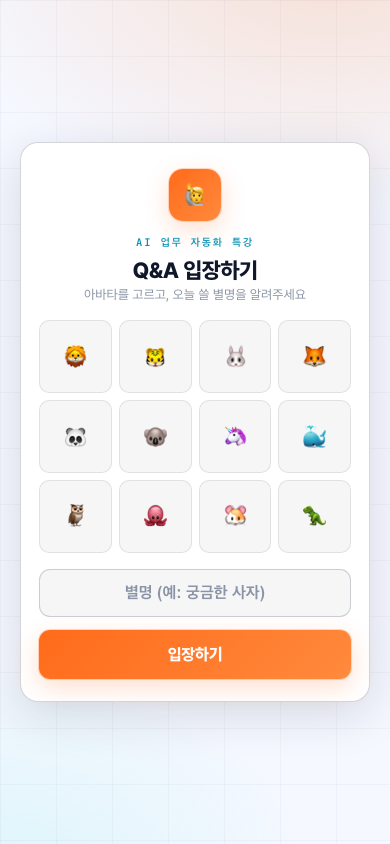
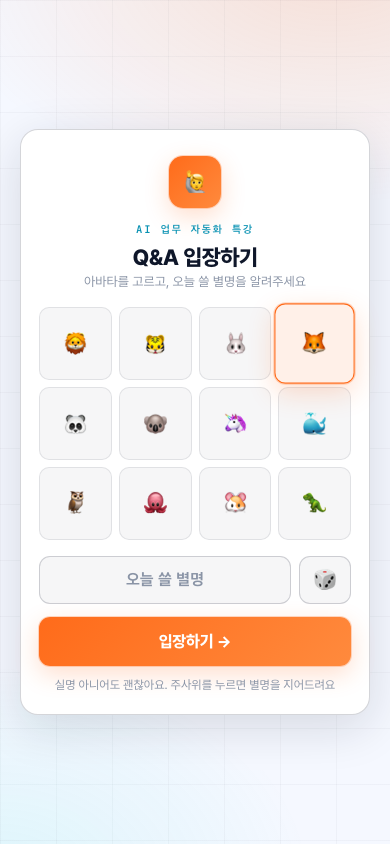
UI 개선: 시작 화면 큰 QR·주사위 별명·글자수 카운터·순위 칩·진행 도구 정리

diff --git a/index.html b/index.html
@@ -91,7 +91,7 @@ button{font-family:inherit}
   color:var(--cyan);margin-bottom:9px}
 .kicker::before{content:"";width:16px;height:1px;background:var(--cyan);opacity:.7}
 .pagehead h1{font-size:clamp(21px,5.6vw,27px);font-weight:800;letter-spacing:-.03em;line-height:1.28;word-break:keep-all}
-.pagehead h1 em{font-style:normal;color:var(--orange2)}
+.pagehead h1 em{font-style:normal;background:linear-gradient(90deg,var(--orange2),var(--orange));-webkit-background-clip:text;background-clip:text;color:transparent}
 .pagehead p{margin-top:8px;font-size:13.5px;color:var(--sub);font-weight:400;word-break:keep-all;line-height:1.6}
 .statrow{display:flex;gap:8px;margin:16px 0 12px;flex-wrap:wrap}
 .stat{flex:1;min-width:88px;background:var(--card);border:1px solid var(--line);border-radius:12px;padding:11px 14px;box-shadow:var(--shadow-sm)}
@@ -114,7 +114,8 @@ button{font-family:inherit}
 .q .who{font-size:12.5px;font-weight:700;color:var(--sub);min-width:0;overflow:hidden;text-overflow:ellipsis;white-space:nowrap}
 .q .who .me{color:var(--orange-deep)}
 .q .time{font-family:var(--mono);font-size:10.5px;color:var(--mut);font-weight:500;flex:none}
-.q .rank{margin-left:auto;font-size:16px;flex:none}
+.q .rank{margin-left:auto;font-size:16px;flex:none;display:flex;align-items:center}
+.rankno{font-family:var(--mono);font-size:11px;font-weight:700;color:var(--mut);border:1px solid var(--line2);border-radius:6px;padding:2px 7px;letter-spacing:.04em}
 .q .txt{font-size:15.5px;line-height:1.58;font-weight:450;color:var(--ink);word-break:keep-all;overflow-wrap:anywhere;white-space:pre-wrap}
 .q .foot{display:flex;align-items:center;gap:8px;margin-top:12px}
 .voteBtn{display:flex;align-items:center;gap:7px;border:1px solid var(--line2);background:rgba(var(--tint),.04);color:var(--sub);
@@ -137,6 +138,18 @@ button{font-family:inherit}
 .empty{text-align:center;color:var(--mut);padding:56px 0 48px;font-size:14px;line-height:1.8}
 .empty .big{font-family:var(--mono);font-size:13px;letter-spacing:.2em;color:var(--cyan);margin-bottom:14px;opacity:.8}
 .empty b{color:var(--sub);font-size:15px}
+/* 스크린 빈 화면: QR을 크게 — 시작할 때 청중이 보는 첫 장면 */
+.empty-screen{grid-column:1/-1;display:grid;grid-template-columns:auto 1fr;gap:34px;align-items:center;
+  background:var(--card);border:1px solid var(--line);border-radius:22px;padding:34px 38px;box-shadow:var(--shadow-sm)}
+.empty-screen img{width:min(34vh,300px);background:#fff;padding:14px;border-radius:16px;border:1px solid var(--line2)}
+.empty-screen .k{font-family:var(--mono);font-size:11.5px;letter-spacing:.2em;color:var(--cyan);margin-bottom:12px}
+.empty-screen h2{font-size:clamp(24px,2.6vw,38px);font-weight:800;letter-spacing:-.03em;line-height:1.25;word-break:keep-all}
+.empty-screen h2 em{font-style:normal;color:var(--orange2)}
+.empty-screen .u{font-family:var(--mono);font-size:clamp(14px,1.3vw,19px);font-weight:600;color:var(--orange-deep);margin-top:16px;word-break:break-all}
+.empty-screen .steps{display:flex;gap:10px;margin-top:22px;flex-wrap:wrap}
+.empty-screen .step{display:flex;align-items:center;gap:8px;font-size:14px;color:var(--sub);background:rgba(var(--tint),.04);border:1px solid var(--line);border-radius:10px;padding:9px 13px}
+.empty-screen .step b{font-family:var(--mono);font-size:11px;color:var(--on-accent);background:linear-gradient(135deg,var(--orange),var(--orange2));width:20px;height:20px;border-radius:6px;display:inline-flex;align-items:center;justify-content:center}
+@media (max-width:900px){.empty-screen{grid-template-columns:1fr;text-align:center;padding:26px 22px}.empty-screen img{margin:0 auto}.empty-screen .steps{justify-content:center}}
 
 /* ================= 입력바 (참가자) ================= */
 .askbar{position:fixed;left:0;right:0;bottom:0;z-index:40;transform:translateY(calc(-1 * var(--kb,0px)));transition:transform .18s ease-out;
@@ -149,6 +162,9 @@ button{font-family:inherit}
 #askBtn{border:none;border-radius:10px;background:linear-gradient(135deg,var(--orange),var(--orange2));color:var(--on-accent);
   font-weight:800;font-size:14px;padding:0 20px;cursor:pointer;box-shadow:var(--glow);white-space:nowrap;transition:.15s}
 #askBtn:active{transform:scale(.94)}
+#askBtn:disabled{opacity:.45;box-shadow:none;cursor:default}
+.cnt{align-self:center;font-family:var(--mono);font-size:11px;color:var(--mut);padding-right:4px;display:none;font-variant-numeric:tabular-nums}
+.cnt.show{display:block}.cnt.warn{color:var(--orange2)}
 
 /* ================= 입장 게이트 ================= */
 #gate{position:fixed;inset:0;z-index:50;display:flex;align-items:center;justify-content:center;background:var(--bg);padding:20px;
@@ -173,6 +189,11 @@ button{font-family:inherit}
 #nickInput{width:100%;padding:14px 16px;font-size:16px;border-radius:11px;border:1px solid var(--line2);background:rgba(var(--tint),.04);
   color:var(--ink);outline:none;text-align:center;font-weight:700;transition:.15s}
 #nickInput::placeholder{color:var(--mut)}
+.nickrow{display:flex;gap:8px}
+.nickrow #nickInput{flex:1;min-width:0}
+#diceBtn{flex:none;width:52px;border-radius:11px;border:1px solid var(--line2);background:rgba(var(--tint),.04);font-size:20px;cursor:pointer;transition:.15s}
+#diceBtn:hover{border-color:var(--orange)}#diceBtn:active{transform:rotate(25deg) scale(.92)}
+.gate-card .hint{font-size:12px;color:var(--mut);margin-top:12px}
 #nickInput:focus{border-color:var(--orange);background:rgba(255,107,26,.07)}
 .btn{display:inline-block;width:100%;margin-top:13px;padding:15px;border:none;border-radius:11px;font-size:16px;font-weight:800;cursor:pointer;
   background:linear-gradient(135deg,var(--orange),var(--orange2));color:var(--on-accent);letter-spacing:-.01em;box-shadow:var(--glow);transition:.15s}
@@ -224,6 +245,8 @@ body.screen .q:hover .modDel{opacity:1}
 body.screen .q.first{grid-column:1/-1;background:linear-gradient(135deg,rgba(255,107,26,.14),var(--card) 62%);
   border:1px solid rgba(255,107,26,.42);box-shadow:0 0 0 1px rgba(255,107,26,.12),0 18px 60px rgba(255,107,26,.16)}
 body.screen .q.first::before{background:linear-gradient(var(--orange),var(--orange2));top:18px;bottom:18px}
+body.screen .q.first{animation:topglow 3.2s ease-in-out infinite}
+@keyframes topglow{50%{box-shadow:0 0 0 1px rgba(255,107,26,.22),0 18px 70px rgba(255,107,26,.3)}}
 body.screen .q.first .txt{font-size:clamp(22px,2.1vw,30px);font-weight:700}
 body.screen .q.first .scvotes{font-size:24px;color:var(--orange2)}
 body.screen .q.first::after{content:"◆ TOP";position:absolute;top:-10px;left:18px;font-family:var(--mono);font-size:10px;font-weight:700;
@@ -237,12 +260,15 @@ body.screen .q.first::after{content:"◆ TOP";position:absolute;top:-10px;left:1
 .sc-stats{display:grid;grid-template-columns:1fr 1fr;gap:8px}
 .sc-stats .stat{min-width:0}
 .ctlrow{display:flex;flex-direction:column;gap:8px}
+.ctlgrid{display:grid;grid-template-columns:1fr 1fr;gap:8px}
+.ctlgrid .wide{grid-column:1/-1}
+.ctl.danger:hover{border-color:#FF5A5A;color:#FF5A5A}
 .ctl{display:flex;align-items:center;justify-content:space-between;gap:10px;border:1px solid var(--line);border-radius:10px;
   background:rgba(var(--tint),.03);padding:11px 13px;font-size:13.5px;font-weight:600;color:var(--sub);cursor:pointer;transition:.15s;width:100%;text-align:left}
 .ctl:hover{border-color:rgba(255,107,26,.45);color:var(--orange-deep)}
 .ctl .st{font-family:var(--mono);font-size:11px;color:var(--mut);font-weight:500;flex:none}
 .ctl.on{border-color:var(--orange);background:var(--orange-soft);color:var(--orange-deep)}
-select#bgmSel{border:none;background:transparent;font-family:var(--mono);font-size:12px;font-weight:600;color:inherit;outline:none;cursor:pointer;text-align:right}
+select#bgmSel{border:none;background:transparent;max-width:120px;font-family:var(--mono);font-size:12px;font-weight:600;color:inherit;outline:none;cursor:pointer;text-align:right}
 select#bgmSel option{background:var(--opt-bg);color:var(--ink)}
 
 /* --- TOPIC 컨트롤(강사) --- */
@@ -407,8 +433,12 @@ body.screen .q:hover .hostrow{opacity:1}
     <h2>Q&A 입장하기</h2>
     <p>아바타를 고르고, 오늘 쓸 별명을 알려주세요</p>
     <div class="avatars" id="avatars"></div>
-    <input id="nickInput" maxlength="10" placeholder="별명 (예: 궁금한 사자)" autocomplete="off">
-    <button class="btn" id="enterBtn">입장하기</button>
+    <div class="nickrow">
+      <input id="nickInput" maxlength="10" placeholder="오늘 쓸 별명" autocomplete="off">
+      <button id="diceBtn" title="별명 랜덤 추천" aria-label="별명 랜덤 추천">🎲</button>
+    </div>
+    <button class="btn" id="enterBtn">입장하기 →</button>
+    <div class="hint">실명 아니어도 괜찮아요. 주사위를 누르면 별명을 지어드려요</div>
   </div>
 </div>
 
@@ -453,27 +483,22 @@ body.screen .q:hover .hostrow{opacity:1}
       </div>
 
       <div class="sidecard">
-        <div class="t">SOUND</div>
-        <div class="ctlrow">
+        <div class="t">HOST — 진행 도구</div>
+        <div class="ctlgrid">
+          <button class="ctl" id="fsBtn"><span>⛶ 전체화면</span><span class="st">F</span></button>
+          <button class="ctl" id="qrBtn"><span>▣ QR 크게</span><span class="st">Q</span></button>
+          <button class="ctl" id="hideDoneBtn"><span>✓ 완료 숨김</span><span class="st" id="hideDoneSt">표시</span></button>
+          <button class="ctl" id="csvBtn"><span>⤓ CSV 저장</span><span class="st">기록</span></button>
           <button class="ctl" id="sfxBtn"><span>🔔 효과음</span><span class="st" id="sfxSt">꺼짐</span></button>
-          <label class="ctl" id="bgmCtl" for="bgmSel"><span>🎵 배경음악</span>
+          <label class="ctl" id="bgmCtl" for="bgmSel"><span>🎵</span>
             <select id="bgmSel">
-              <option value="off">끄기</option>
+              <option value="off">배경음 끄기</option>
               <option value="lounge">라운지 (차분)</option>
               <option value="quiz">퀴즈쇼 (긴장감)</option>
               <option value="arcade">아케이드 (신남)</option>
             </select>
           </label>
-        </div>
-      </div>
-      <div class="sidecard">
-        <div class="t">HOST — 진행 도구</div>
-        <div class="ctlrow">
-          <button class="ctl" id="fsBtn"><span>⛶ 전체화면</span><span class="st">F</span></button>
-          <button class="ctl" id="qrBtn"><span>▣ QR 크게 띄우기</span><span class="st">Q</span></button>
-          <button class="ctl" id="csvBtn"><span>⤓ CSV로 내려받기</span><span class="st">전체 기록</span></button>
-          <button class="ctl" id="hideDoneBtn"><span>✓ 답변완료 숨기기</span><span class="st" id="hideDoneSt">표시</span></button>
-          <button class="ctl" id="resetBtn"><span>🗑 전체 초기화</span><span class="st">새 세션</span></button>
+          <button class="ctl danger wide" id="resetBtn"><span>🗑 전체 초기화</span><span class="st">새 세션</span></button>
         </div>
         <div class="roomtag" id="roomTag"></div>
       </div>
@@ -484,8 +509,9 @@ body.screen .q:hover .hostrow{opacity:1}
 <!-- 질문 입력 (참가자) -->
 <div class="askbar" id="askbar" style="display:none">
   <div class="inner">
-    <input id="qInput" maxlength="120" placeholder="질문을 입력하세요 (120자)" autocomplete="off">
-    <button id="askBtn">올리기</button>
+    <input id="qInput" maxlength="120" placeholder="질문을 입력하세요" autocomplete="off">
+    <span class="cnt" id="cnt">0/120</span>
+    <button id="askBtn" disabled>올리기</button>
   </div>
   <div class="reactbar" id="reactbar">
     <button data-react="👏">👏</button><button data-react="🔥">🔥</button>
@@ -748,7 +774,8 @@ function fly(e){
 /* ================= 렌더 ================= */
 let filterMode='all', sortMode='votes', hideDone=false;
 const ago=ts=>{const m=Math.floor((Date.now()-ts)/60000);return m<1?'방금':m<60?m+'분 전':Math.floor(m/60)+'시간 전'};
-const medal=i=>i===0?'👑':i===1?'🥈':i===2?'🥉':'';
+const rankTag=i=>i===0?'👑':i<3?`<span class="rankno">#${i+1}</span>`:'';
+let screenQr='', screenJoin='';
 function esc(s){return String(s).replace(/[&<>"']/g,c=>({'&':'&amp;','<':'&lt;','>':'&gt;','"':'&quot;',"'":'&#39;'}[c]))}
 function ordered(){
   let qs=[...state.questions];
@@ -776,7 +803,16 @@ function render(){
   const rankOf={}; all.filter(q=>!q.answered).forEach((q,i)=>rankOf[q.id]=i);
 
   if(!qs.length){
-    list.innerHTML=`<div class="empty"><div class="big">// NO ENTRIES YET</div><b>${filterMode==='all'?c.empty:'해당하는 글이 없어요'}</b><br>${IS_SCREEN?'폰으로 QR을 찍고 첫 글을 올려보세요':'아래 입력창에 편하게 남겨주세요'}</div>`;
+    if(IS_SCREEN&&filterMode==='all'&&!all.length&&screenQr){
+      list.innerHTML=`<div class="empty-screen"><img src="${screenQr}" alt="입장 QR"><div>
+        <div class="k">JOIN — 폰으로 입장</div>
+        <h2>${isTopic()?'폰으로 QR을 찍고 <em>답을 남겨</em>주세요':'폰으로 QR을 찍고 <em>첫 질문</em>을 올려주세요'}</h2>
+        <div class="u">${esc(screenJoin)}</div>
+        <div class="steps"><span class="step"><b>1</b>카메라로 QR 찍기</span><span class="step"><b>2</b>별명 정하기</span><span class="step"><b>3</b>${isTopic()?'답 남기기':'질문 올리기'}</span></div>
+      </div></div>`;
+    } else {
+      list.innerHTML=`<div class="empty"><div class="big">// NO ENTRIES YET</div><b>${filterMode==='all'?c.empty:'해당하는 글이 없어요'}</b><br>${IS_SCREEN?'폰으로 QR을 찍고 첫 글을 올려보세요':'아래 입력창에 편하게 남겨주세요'}</div>`;
+    }
     lastLeader=null; return;
   }
   const prev={};[...list.children].forEach(el=>{if(el.dataset.id)prev[el.dataset.id]=el.getBoundingClientRect().top});
@@ -791,7 +827,7 @@ function render(){
         <span class="time">${ago(q.ts)}${q.edited?' · 수정됨':''}</span>
         ${q.pinned?'<span class="pinflag">NOW</span>':''}
         ${q.answered?'<span class="doneflag">DONE</span>':''}
-        <span class="rank">${!q.answered&&rankOf[q.id]!=null?medal(rankOf[q.id]):''}</span>
+        <span class="rank">${!q.answered&&rankOf[q.id]!=null?rankTag(rankOf[q.id]):''}</span>
       </div>
       <div class="txt">${esc(q.text)}</div>
       ${IS_SCREEN
@@ -856,6 +892,7 @@ if(IS_SCREEN){
   $('#joinUrl').textContent=joinShown;
   $('#qrImg').src=qrSrc(420);
   $('#qrFullImg').src=qrSrc(900);
+  screenQr=qrSrc(600); screenJoin=joinShown; render();
   $('#qrFullUrl').textContent=joinShown;
   $('#roomTag').textContent='ROOM · '+ROOM.toUpperCase();
 
@@ -910,8 +947,13 @@ if(IS_SCREEN){
   AVATARS.forEach(a=>{const b=document.createElement('button');b.textContent=a;
     b.onclick=()=>{[...av.children].forEach(x=>x.classList.remove('sel'));b.classList.add('sel');my.avatar=a};
     av.appendChild(b);});
+  const ANIMAL={'🦁':'사자','🐯':'호랑이','🐰':'토끼','🦊':'여우','🐼':'판다','🐨':'코알라','🦄':'유니콘','🐳':'고래','🦉':'부엉이','🐙':'문어','🐹':'햄스터','🦖':'공룡'};
+  const ADJ=['궁금한','열공하는','조용한','야무진','느긋한','반짝이는','용감한','수줍은','부지런한','엉뚱한'];
+  if(!my.avatar) my.avatar=AVATARS[Math.floor(Math.random()*AVATARS.length)];
   if(my.nick)$('#nickInput').value=my.nick;
-  if(my.avatar)[...av.children].find(b=>b.textContent===my.avatar)?.classList.add('sel');
+  [...av.children].find(b=>b.textContent===my.avatar)?.classList.add('sel');
+  $('#diceBtn').onclick=()=>{ const a=ADJ[Math.floor(Math.random()*ADJ.length)], n=ANIMAL[my.avatar]||'참가자';
+    $('#nickInput').value=(a+' '+n).slice(0,10); $('#nickInput').focus(); };
   $('#enterBtn').onclick=()=>{
     const n=$('#nickInput').value.trim();
     if(!n){$('#nickInput').focus();return toast('별명을 입력해주세요!')}
@@ -919,6 +961,7 @@ if(IS_SCREEN){
     store.save(my);
     $('#gate').style.display='none';$('#askbar').style.display='block';
     ch.track({nick:my.nick,screen:false});
+    setTimeout(()=>toast(isTopic()?'한 줄이면 충분해요 ✍':'다른 분 질문엔 🙌 나도 궁금해를 눌러주세요'),700);
   };
   $('#nickInput').addEventListener('keydown',e=>e.key==='Enter'&&$('#enterBtn').click());
 
@@ -929,10 +972,13 @@ if(IS_SCREEN){
     if(Date.now()-lastAsk<gap)return toast(`숨 고르고, ${gap/1000}초 뒤에 다시 🙏`);
     lastAsk=Date.now();
     ch.send({type:'broadcast',event:'ask',payload:{id:crypto.randomUUID(),by:my.id,nick:my.nick,avatar:my.avatar,text:t,ts:Date.now()}});
-    $('#qInput').value='';toast(isTopic()?'답변 올라갔어요! 🚀':'질문 올라갔어요! 🚀');
+    $('#qInput').value='';$('#askBtn').disabled=true;$('#cnt').classList.remove('show');toast(isTopic()?'답변 올라갔어요! 🚀':'질문 올라갔어요! 🚀');
   }
   $('#askBtn').onclick=ask;
   $('#qInput').addEventListener('keydown',e=>e.key==='Enter'&&ask());
+  $('#qInput').addEventListener('input',e=>{ const n=e.target.value.length, c=$('#cnt');
+    c.textContent=n+'/120'; c.classList.toggle('show',n>=70); c.classList.toggle('warn',n>=110);
+    $('#askBtn').disabled=!e.target.value.trim(); });
 
   /* 라이브 리액션 */
   let lastReact=0;

diff --git a/README.md b/README.md
@@ -5,11 +5,17 @@
 
 **바로 써보기(데모 모드):** 강사 화면 https://jinnyjiinlee.github.io/live-qa-board/?screen · 참가자 화면 https://jinnyjiinlee.github.io/live-qa-board/ — 같은 브라우저에서 두 탭을 나란히 열어보세요
 
+시작 화면 — 질문이 올라오기 전엔 QR이 크게 떠요
+
+![시작 화면](docs/screen-empty.png)
+
+질문이 올라오면 공감 많은 질문이 위로 — 강사 화면
+
 ![강사 화면](docs/screen-dark.png)
 
-| 참가자 (폰) | 입장 화면 (라이트 테마) |
-|---|---|
-| ![참가자 화면](docs/phone-dark.png) | ![입장 화면](docs/phone-light-gate.png) |
+| 입장 (주사위로 별명 추천) | 참가자 (폰) | 라이트 테마 |
+|---|---|---|
+| ![입장 화면](docs/phone-gate.png) | ![참가자 화면](docs/phone-dark.png) | ![라이트 테마](docs/phone-light-gate.png) |
 
 ## 왜 만들었나요
 
